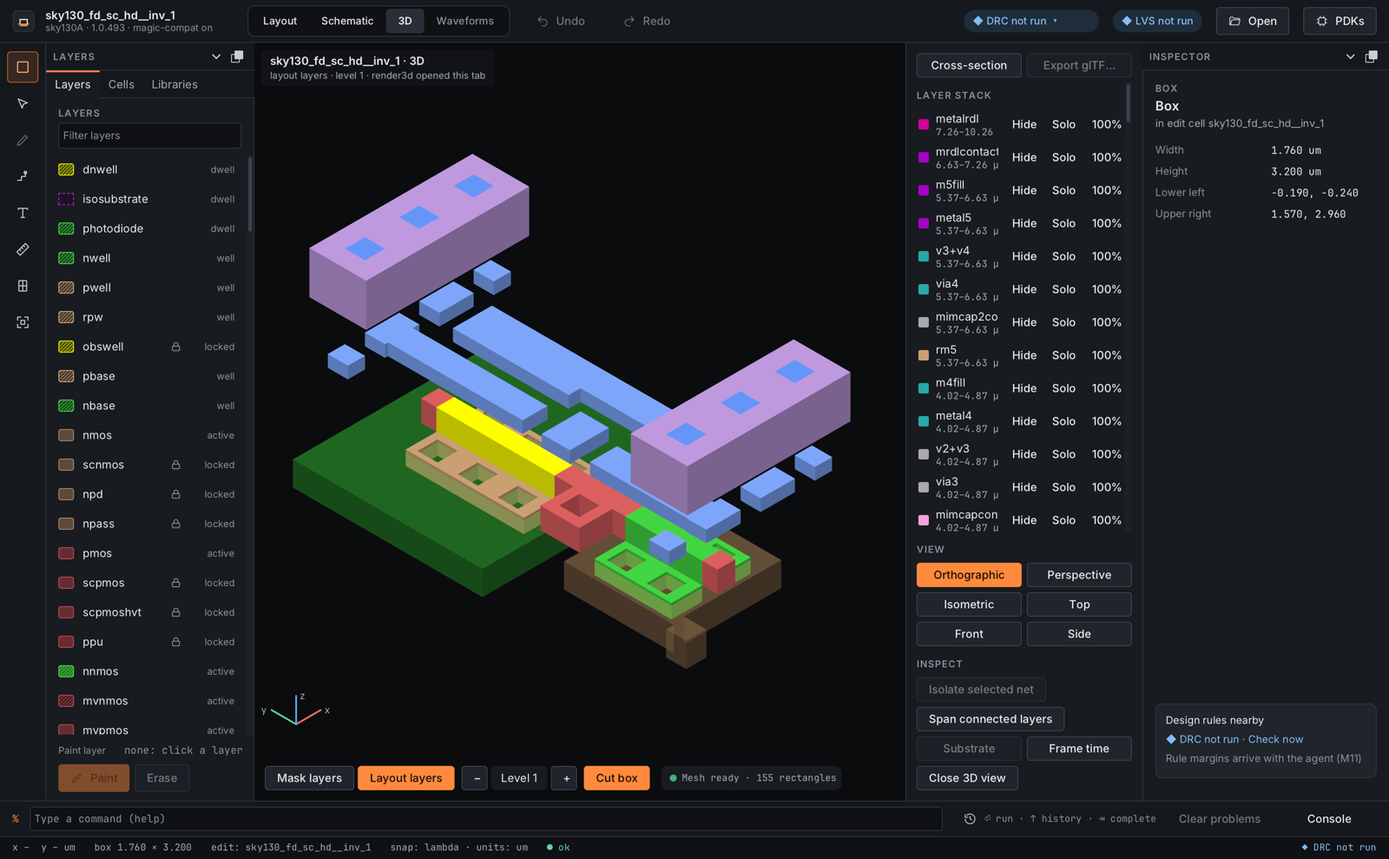
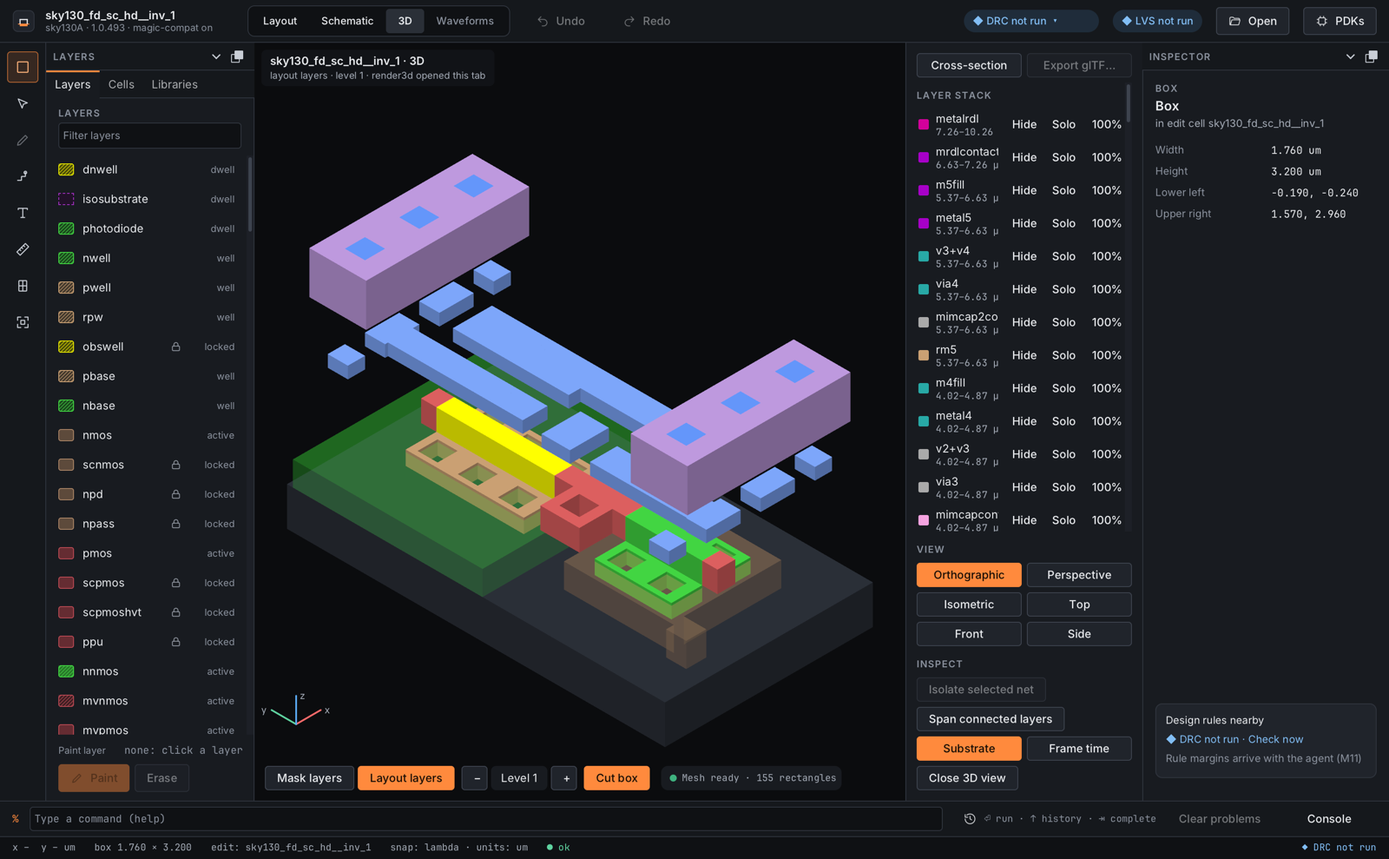
3D tab: use SECTION's section, clipping plane, substrate slab and ground point
With m10-3d-round5-section merged, the template guards are gone: the
cross-section reads view3d::section with the hidden flags and reports its
diagnostics once per line, the view is clipped at the cut line, the
Substrate toggle draws the slab, and two clicks set A-A' on the z = 0
plane. Section bars take the row's transparency. Captures retaken.

diff --git a/src/shell/desktop/src/view3d_view.cpp b/src/shell/desktop/src/view3d_view.cpp
@@ -19,9 +19,7 @@
 #include "hefesto/view3d/client/commands.hpp"
 #include "hefesto/view3d/client/scene.hpp"
 #include "hefesto/view3d/stack/ghost.hpp"
-#if __has_include("hefesto/view3d/stack/substrate.hpp")
 #include "hefesto/view3d/stack/substrate.hpp"
-#endif
 #include "screen_paint.hpp"
 #include "side_panels.hpp"
 
@@ -41,37 +39,6 @@ Rgba rgb_of(const std::array<float, 3>& c) {
 Rgba alpha_of(Rgba c, float a) {
   c.a *= a;
   return c;
-}
-
-// SECTION's round-5 interfaces (substrate slab, ground point), used when
-// they are present: the guards are templates, so a missing function or
-// field only turns the feature off (listed for integration).
-template <class Params, class Mesh, class Stack>
-constexpr bool kHaveSubstrate = requires(Params& p, const Mesh& m, const Stack& s) {
-  p.substrate = substrate_slab(m, s);  // view3d::substrate_slab, found through Mesh's namespace
-};
-
-template <class Params, class Mesh, class Stack>
-void set_substrate(Params& params, const Mesh& mesh, const Stack& stack, bool on) {
-  if constexpr (kHaveSubstrate<Params, Mesh, Stack>) {
-    if (on) params.substrate = substrate_slab(mesh, stack);
-  }
-}
-
-template <class View>
-constexpr bool kHaveGroundPoint = requires(const View& v) {
-  { ground_point(v, 0.0F, 0.0F, 1, 1) };  // view3d::ground_point(view, x, y, width, height)
-};
-
-template <class View>
-std::optional<db::Point> ground_at(const View& view, float x, float y, int width, int height) {
-  if constexpr (kHaveGroundPoint<View>) {
-    const auto p = ground_point(view, x, y, width, height);
-    if (!p) return std::nullopt;
-    return db::Point{static_cast<db::Coord>(std::lround(p->x)), static_cast<db::Coord>(std::lround(p->y))};
-  } else {
-    return std::nullopt;
-  }
 }
 
 }  // namespace
@@ -218,7 +185,7 @@ View3dControlState View3dView::control_state() const {
   s.net_isolated = picking_.net_isolated();
   s.section_on = section_line_.has_value();
   s.substrate_on = substrate_on_;
-  s.substrate_available = kHaveSubstrate<render::DrawParams, view3d::MeshModel, view3d::LayerStack>;
+  s.substrate_available = true;
   s.export_available = export_registered() && ctx_.editor().file_picker != nullptr;
   s.visibility_editable = w != nullptr && visibility_editable(*w);
   return s;
@@ -661,7 +628,7 @@ void View3dView::take_model(const view3d::MeshHandle& model) {
   drawable_ = pending_drawable_;
   ghost_.drawn(*drawn_stack_, options_);
   picking_.model_changed();  // the isolated net follows the new ordinals
-  update_section();
+  update_section(false);
   highlight_dirty_ = true;
   dirty_ = true;
   refresh_rows();
@@ -781,7 +748,11 @@ void View3dView::draw_frame() {
   const display::StyleSet* styles = ctx_.editor().styles ? &*ctx_.editor().styles : nullptr;
   render::DrawParams params =
       draw_params(FrameInputs{w, stack, styles, highlight_, &options_, view3d_background(ctx_.mode)});
-  if (uploaded_ && uploaded_stack_) set_substrate(params, *uploaded_, *uploaded_stack_, substrate_on_);
+  // The board's substrate slab and the cross-section's clipping plane (round 5).
+  if (substrate_on_ && uploaded_ && uploaded_stack_) {
+    params.substrate = view3d::substrate_slab(*uploaded_, *uploaded_stack_);
+  }
+  if (section_line_) params.section_plane = section_clip_plane(*section_line_);
   const auto start = std::chrono::steady_clock::now();
   try {
     renderer_->draw(w->view, params, *target_);
@@ -1012,16 +983,17 @@ void View3dView::paint_section(ui::Painter& p, float w, float h) {
   constexpr float kStrip = 64.0F;
   p.fill(0.0F, 0.0F, w, h, 8.0F, t.surface2);
   p.text(TextRole::body_strong, 12.0F, 8.0F, "Cross-section A–A′", t.text_primary);
-  const double length = segment_length_um(*section_line_, stack->microns_per_unit());
   const SectionPanel panel =
-      section_panel(section_, *stack, length, w - 24.0F, kStrip, hidden_flags(*stack, *win));
+      section_panel(section_, *stack, section_.length_um, w - 24.0F, kStrip, hidden_flags(*stack, *win));
   section_paint_->set_accessible_name(panel.accessible_name);
   p.text(TextRole::meta, 12.0F, 24.0F, panel.summary, t.text_secondary);
   p.fill(12.0F, kTop, w - 24.0F, kStrip, 2.0F, t.surface0);
   const display::StyleSet* styles = ctx_.editor().styles ? &*ctx_.editor().styles : nullptr;
   const std::vector<render::LayerPaint> paints = render::layer_paints(*stack, styles);
   for (const SectionBar& bar : panel.bars) {
-    const Rgba color = bar.layer < paints.size() ? rgb_of(paints[bar.layer].rgb) : t.text_secondary;
+    // In the style colour at the layer's transparency (ghosted wells stay faint).
+    const float alpha = bar.layer < options_.alpha.size() ? options_.alpha[bar.layer] : 1.0F;
+    const Rgba color = bar.layer < paints.size() ? alpha_of(rgb_of(paints[bar.layer].rgb), alpha) : t.text_secondary;
     p.fill(12.0F + bar.x, kTop + bar.y, std::max(1.0F, bar.w), std::max(1.0F, bar.h), 0.0F, color);
   }
   std::string foot = panel.bars.empty() ? "No layer crosses the line" : "A at left, A′ at right; height in µm";
@@ -1039,29 +1011,41 @@ void View3dView::toggle_section() {
     if (const std::optional<db::Rect> area = section_area(ctx_.editor(), *w)) section_line_ = box_cut_line(*area);
   }
   section_paint_->set_visible(section_line_.has_value());
-  update_section();
+  update_section(true);
+  dirty_ = true;  // the clipping plane
   repaint();
 }
 
-void View3dView::update_section() {
+void View3dView::update_section(bool report) {
   section_ = {};
-  if (section_line_ && model_ && drawn_stack_) section_ = view3d::section(*model_, *drawn_stack_, *section_line_);
+  const view3d::WindowState* w = window();
+  if (section_line_ && model_ && drawn_stack_ && w != nullptr) {
+    section_ = view3d::section(*model_, *drawn_stack_, *section_line_, hidden_flags(*drawn_stack_, *w));
+  }
+  // A new line's diagnostics (a refused line, layers without a height) go
+  // to the console once; a rebuilt model recomputes silently.
+  if (report) {
+    for (const diag::Diagnostic& d : section_.diagnostics) ctx_.core.dispatcher().report(d);
+  }
   section_paint_->invalidate();
 }
 
 bool View3dView::section_click(float x, float y) {
   const view3d::WindowState* w = window();
   if (!section_line_ || w == nullptr) return false;
-  const ui::Rect r = viewport_->rect();
-  const std::optional<db::Point> point =
-      ground_at(w->view, x, y, static_cast<int>(r.width), static_cast<int>(r.height));
-  if (!point) return false;  // no ground point (SECTION's interface): the click picks
+  const float ratio = pixel_ratio_ ? pixel_ratio_() : 1.0F;
+  const render::DrawParams params = draw_params(FrameInputs{w, nullptr, nullptr, nullptr, &options_});
+  const std::optional<db::Point> ground =
+      view3d::ground_point(w->view, params.projection, pixels_.first, pixels_.second, x * ratio, y * ratio);
+  if (!ground) return false;  // the plane is seen edge on (front, side): the click picks
+  const db::Point point = ground_to_root(*ground, xy_factor(*w));
   if (!section_first_) {
-    section_first_ = *point;
+    section_first_ = point;
   } else {
-    section_line_ = axis_aligned_line(*section_first_, *point);
+    section_line_ = axis_aligned_line(*section_first_, point);
     section_first_.reset();
-    update_section();
+    update_section(true);
+    dirty_ = true;
   }
   repaint();
   return true;

diff --git a/tests/unit/shell/view3d_models_test.cpp b/tests/unit/shell/view3d_models_test.cpp
@@ -1279,3 +1279,47 @@ TEST_CASE("Cross-section: the section panel draws each interval from bottom to t
   CHECK(empty.summary == "A–A′ no µm scale · 0 layers");
   CHECK(empty.accessible_name == "Cross-section A–A′, length unknown, no layer crosses the line");
 }
+
+TEST_CASE("the cut line's clipping plane keeps the side away from the isometric viewer",
+          "[cap:hefesto-3d-visualization][req:Interactive 3D inspection]") {
+  const hefesto::render::SectionPlane along_x = section_clip_plane(box_cut_line(db::Rect{0, 0, 100, 40}));
+  CHECK(along_x.axis == hefesto::render::SectionPlane::Axis::y);
+  CHECK(along_x.position == 20.0);
+  CHECK(along_x.keep_greater);
+  const hefesto::render::SectionPlane along_y = section_clip_plane(box_cut_line(db::Rect{-10, -30, 10, 70}));
+  CHECK(along_y.axis == hefesto::render::SectionPlane::Axis::x);
+  CHECK(along_y.position == 0.0);
+  CHECK(along_y.keep_greater);
+}
+
+TEST_CASE("a ground point in mask-layer mode is divided back to root coordinates",
+          "[cap:hefesto-3d-visualization][req:Interactive 3D inspection]") {
+  CHECK(ground_to_root(db::Point{100, -40}, 1.0F) == db::Point{100, -40});
+  CHECK(ground_to_root(db::Point{100, -40}, 10.0F) == db::Point{10, -4});
+  CHECK(ground_to_root(db::Point{100, -40}, 0.0F) == db::Point{100, -40});  // not a valid factor: unchanged
+}
+
+TEST_CASE("Cross-section on the tab's mesh: the panel shows the layers the line crosses",
+          "[cap:hefesto-3d-visualization][req:Interactive 3D inspection]") {
+  // A real section (view3d::section, SECTION) of a one-layer model.
+  view3d::StackLayer met1;
+  met1.name = "MET1";
+  met1.height = 1.38F;
+  met1.thickness = 0.36F;
+  met1.source = view3d::ValueSource::render;
+  const view3d::LayerStack stack{view3d::Mode::mask_layer, {met1}, true, 0.01};
+  view3d::MeshModel mesh;
+  mesh.region = db::Rect{0, 0, 200, 100};
+  view3d::Chunk chunk;
+  chunk.area = mesh.region;
+  chunk.rects.push_back(view3d::RectInstance{50.0F, 0.0F, 150.0F, 100.0F, 0});
+  mesh.chunks.push_back(chunk);
+  const view3d::Segment line = box_cut_line(mesh.region);
+  const view3d::CrossSection cs = view3d::section(mesh, stack, line);
+  REQUIRE(cs.intervals.size() == 1);
+  const SectionPanel panel = section_panel(cs, stack, cs.length_um, 200.0F, 60.0F);
+  REQUIRE(panel.bars.size() == 1);
+  CHECK(panel.bars[0].x == Catch::Approx(50.0F).margin(1e-3));
+  CHECK(panel.bars[0].w == Catch::Approx(100.0F).margin(1e-3));
+  CHECK(panel.summary == "A–A′ 2.00 µm · 1 layer");
+}

diff --git a/src/shell/desktop/src/view3d_models.cpp b/src/shell/desktop/src/view3d_models.cpp
@@ -808,6 +808,26 @@ std::optional<db::Rect> section_area(const editor::EditorState& editor, const vi
   return cell->bbox();
 }
 
+render::SectionPlane section_clip_plane(const view3d::Segment& line) noexcept {
+  render::SectionPlane plane;
+  if (line.a.y == line.b.y) {
+    plane.axis = render::SectionPlane::Axis::y;
+    plane.position = static_cast<double>(line.a.y);
+  } else {
+    plane.axis = render::SectionPlane::Axis::x;
+    plane.position = static_cast<double>(line.a.x);
+  }
+  plane.keep_greater = true;
+  return plane;
+}
+
+db::Point ground_to_root(db::Point ground, float xy_factor) noexcept {
+  if (!std::isfinite(xy_factor) || xy_factor <= 0.0F || xy_factor == 1.0F) return ground;
+  const double f = static_cast<double>(xy_factor);
+  return db::Point{static_cast<db::Coord>(std::lround(static_cast<double>(ground.x) / f)),
+                   static_cast<db::Coord>(std::lround(static_cast<double>(ground.y) / f))};
+}
+
 double segment_length_um(const view3d::Segment& line, double microns_per_unit) noexcept {
   const double dx = static_cast<double>(line.b.x) - static_cast<double>(line.a.x);
   const double dy = static_cast<double>(line.b.y) - static_cast<double>(line.a.y);

diff --git a/src/shell/desktop/include/hefesto/shell/view3d_models.hpp b/src/shell/desktop/include/hefesto/shell/view3d_models.hpp
@@ -645,6 +645,14 @@ inline constexpr float kView3dToolbarSpacing = 8.0F;
 /// box; nullopt when the cell does not exist.
 [[nodiscard]] std::optional<db::Rect> section_area(const editor::EditorState& editor,
                                                    const view3d::WindowState& window);
+/// The 3D view's clipping plane for `line` (render::SectionPlane): the
+/// vertical plane through the line, keeping the side away from the
+/// isometric viewer (y >= c for a line along x, x >= c for one along y),
+/// so the cut faces the user.
+[[nodiscard]] render::SectionPlane section_clip_plane(const view3d::Segment& line) noexcept;
+/// A view3d::ground_point result back in root coordinates: it is in the
+/// renderer's coordinates, x and y times `xy_factor` (mask-layer mode, P1).
+[[nodiscard]] db::Point ground_to_root(db::Point ground, float xy_factor) noexcept;
 /// The line's length in µm (internal units x µm per unit).
 [[nodiscard]] double segment_length_um(const view3d::Segment& line, double microns_per_unit) noexcept;
 

diff --git a/src/shell/desktop/src/view3d_view.hpp b/src/shell/desktop/src/view3d_view.hpp
@@ -141,8 +141,9 @@ class View3dView final : public view3d::WindowDisplay, public view::ViewObserver
   void toggle_section();
   void export_model();
   [[nodiscard]] bool export_registered() const;
-  /// Recomputes the cross-section of the drawn model along section_line_.
-  void update_section();
+  /// Recomputes the cross-section of the drawn model along section_line_
+  /// (hidden layers left out); `report` sends its diagnostics to the console.
+  void update_section(bool report);
   /// A click in the 3D view while the cross-section is on: A, then A'
   /// (on the z = 0 plane; needs view3d::ground_point).
   bool section_click(float x, float y);

diff --git a/docs/design/m10-3d-ui-conformance.md b/docs/design/m10-3d-ui-conformance.md
@@ -30,7 +30,7 @@ Round 4 Linux captures (PR #102 CI run 45420881227, leg `linux-x64-clang-latest`
 
 Round 4 (SHELL, branch `m10-3d-round4-shell`, 2026-11-24; Q-MISC-84, Q-MISC-85): the user's screenshot of `sky130_fd_sc_hd__dfxtp_1` did not look like the board. Before captures (same build at the origin/main base, kept out of the repository) showed a light grey background, washed-out faces fading to white, an isometric `view` with the stack upside down and the cell far larger than the window, and Magic's top-down view on opening. After captures, macOS (Apple M3 Pro, MoltenVK, debug build, 1600 × 989 logical, `hefesto -T sky130A.tech <cell>.mag --run 'magic::render3d; .render.magic cif' --capture …`, with Magic's `mos` styles in a CAD_ROOT), with RENDER's round-4 renderer merged: [view3d-dfxtp1-macos.png](../images/ui/view3d-dfxtp1-macos.png) (magic-compat ON), [view3d-dfxtp1-compat-off-macos.png](../images/ui/view3d-dfxtp1-compat-off-macos.png) (`setting set magic-compat off` first: the same picture), [view3d-inverter-macos.png](../images/ui/view3d-inverter-macos.png) (`sky130_fd_sc_hd__inv_1`, standing in for the board's `inverter_demo`, which the repository does not have). Rows in "Round 4 board look" below. Linux captures of the new look come from the CI desktop legs (open).
 
-Round 5 (SHELL, branch `m10-3d-round5-shell`, 2026-11-25; tasks 9.6, 11.5): before captures (the origin/main build at cbe15a8c, kept out of the repository) reproduce the round-4 Linux gaps on macOS at 1280 × 800: the toolbar strip under the view is wider than the view (Cut box and the mesh status cut off), and the panel's View and Inspect sections are below a 349-row layer list. After captures, macOS (Apple M3 Pro, MoltenVK, debug build, same commands as round 4, plus 1280 × 800): [view3d-dfxtp1-macos.png](../images/ui/view3d-dfxtp1-macos.png) (1600 × 989), [view3d-dfxtp1-1280-macos.png](../images/ui/view3d-dfxtp1-1280-macos.png) (1280 × 800), [view3d-dfxtp1-compat-off-macos.png](../images/ui/view3d-dfxtp1-compat-off-macos.png) (magic-compat OFF: the same picture), [view3d-inverter-macos.png](../images/ui/view3d-inverter-macos.png), [view3d-tab-macos.png](../images/ui/view3d-tab-macos.png) (the window test's cell at 1280 × 800), and the Cross-section panel after a click on "Cross-section" (`--press`): [view3d-section-dfxtp1-macos.png](../images/ui/view3d-section-dfxtp1-macos.png), [view3d-section-tab-macos.png](../images/ui/view3d-section-tab-macos.png). Rows in "Round 5" below. The Linux captures of the same window test come from the CI desktop legs of the round's PR (`view3d-captures-<leg>`).
+Round 5 (SHELL, branch `m10-3d-round5-shell`, 2026-11-25; tasks 9.6, 11.5): before captures (the origin/main build at cbe15a8c, kept out of the repository) reproduce the round-4 Linux gaps on macOS at 1280 × 800: the toolbar strip under the view is wider than the view (Cut box and the mesh status cut off), and the panel's View and Inspect sections are below a 349-row layer list. After captures, macOS (Apple M3 Pro, MoltenVK, debug build, same commands as round 4, plus 1280 × 800): [view3d-dfxtp1-macos.png](../images/ui/view3d-dfxtp1-macos.png) (1600 × 989), [view3d-dfxtp1-1280-macos.png](../images/ui/view3d-dfxtp1-1280-macos.png) (1280 × 800), [view3d-dfxtp1-compat-off-macos.png](../images/ui/view3d-dfxtp1-compat-off-macos.png) (magic-compat OFF: the same picture), [view3d-inverter-macos.png](../images/ui/view3d-inverter-macos.png), [view3d-tab-macos.png](../images/ui/view3d-tab-macos.png) (the window test's cell at 1280 × 800), and the Cross-section panel after a click on "Cross-section" (`--press`): [view3d-section-dfxtp1-macos.png](../images/ui/view3d-section-dfxtp1-macos.png), [view3d-section-tab-macos.png](../images/ui/view3d-section-tab-macos.png). These captures were retaken after SECTION's branch (`m10-3d-round5-section`: `view3d::section`, the clipping plane, the substrate slab, `ground_point`) was merged into the SHELL branch, so they show the slab and a real section. Rows in "Round 5" below. The Linux captures of the same window test come from the CI desktop legs of the round's PR (`view3d-captures-<leg>`).
 
 ## Round 5: floating toolbar, fit at 1280 × 800, P2 screen part (tasks 9.6, 11.5)
 
@@ -41,9 +41,9 @@ Compared with the board `docs/design/mockups/View3D.dc.html` and the round-5 aft
 | Floating view toolbar | Mask / Layout layers, the Level stepper (− · "Level 1" · +) and Cut box float over the bottom-left of the 3D view, 12 px from its edges (`raven_ui` `Widget::place_bottom_left`), with the mesh status chip; the strip under the view is gone. The groups flow into rows when the view is narrow (`flow_rows`): one row at 1600 × 989, two rows at 1280 × 800 (mode and level, then Cut box and status). The axis gizmo and the pick caption sit above the toolbar. | done (macOS); the status chip follows the controls instead of sitting at the right end as on the board |
 | Every control fits at 1280 × 800 | The side panel's paired buttons (Cross-section / Export glTF…, Orthographic / Perspective, the presets, Substrate / Frame time) are a two-column grid of equal cells (the board's camera grid), so "Side" ends inside the panel; nothing in the toolbar is cut off. Test "the side panel's button grid and the floating toolbar fit a 1280-px-wide window". | done (macOS 1280 × 800); Linux X11/Wayland from the PR's CI captures |
 | Presets and projection | Pinned under the scrolled layer stack ("View"), always visible, as the board pins them to the bottom of its aside; the layer list scrolls above them. | done (macOS) |
-| Cross-section (task 11.5) | The "Cross-section" toggle cuts A–A′ along the layout box's long axis (axis-aligned; else the cut box, else the cell's bounding box) and shows the "Cross-section A–A′" panel under Inspect: each layer's intervals from h to h + t in µm in its display style's colour, the line's length, the layers with no height named. Two clicks in the 3D view set A and A′ once SECTION's `view3d::ground_point` is merged (guarded). | partial: on main `view3d::section` is a stub, so the panel reads "No layer crosses the line" in the captures; the bars appear with SECTION's implementation (integration). The 3D clipping plane (`DrawParams::section_plane`) is not wired (SECTION's field was not available to this branch) |
+| Cross-section (task 11.5) | The "Cross-section" toggle cuts A–A′ along the layout box's long axis (axis-aligned; else the cut box, else the cell's bounding box), clips the 3D view at the vertical plane through the line (`DrawParams::section_plane`, keeping the side away from the isometric viewer) and shows the "Cross-section A–A′" panel under Inspect: each layer's intervals from h to h + t in µm (`view3d::section`, hidden layers left out) in its display style's colour at the row's transparency, the line's length, the layers with no height named; the section's diagnostics go to the console once per line (the window test's tech, which has no µm scale, reports `VIEW3D-SECTION-002`). With Cross-section on, two clicks in the 3D view set A and A′ on the z = 0 plane (`view3d::ground_point`; front and side views see the plane edge on, so a click there picks). | done (macOS: dfxtp_1 cut along its long axis, panel with 6 layers; the window test's cell with the warning); the board draws the panel in the right aside, here it is under Inspect in the side panel |
 | Export glTF… (task 11.5) | Asks for a file with the platform save dialog (`platform::FilePicker`: glTF, glTF binary, STL; "<cell>.gltf" proposed) and runs `<path> export3d <file>` (or plain `export3d <file>` when the command is not in the 3D window's table). | partial: disabled in the captures because `export3d` (EXPORT, D14) is not registered on main; it enables itself when the command exists |
-| Substrate slab | A "Substrate" toggle (default on, the board look) sets `DrawParams::substrate` from `view3d::substrate_slab` when SECTION's interfaces are merged (guarded). | partial: disabled ("Substrate, off") until SECTION is merged; no slab drawn in the captures |
+| Substrate slab | A "Substrate" toggle (default on, the board look) sets `DrawParams::substrate` from `view3d::substrate_slab`: the dark slab under the stack in every after capture. | done (macOS); not listed as a layer-stack row as on the board ("substrate · ghosted"): it is not a layer |
 | Layer row text at 1280 × 800 | The rows end before the scroll bar; long sky130A names and their µm ranges ("mrdlcontact", "6.63–7.26 µm") are clipped by the three row buttons. | partial: clipped long names (the board shows the row buttons only on hover) |
 
 ## Round 4 board look (Q-MISC-84, Q-MISC-85; tasks 16.6-16.8, 16.10)
@@ -126,7 +126,7 @@ Round 3 (SHELL): `Mesh3dSpike` is removed (`mesh3d_spike.hpp|.cpp`, the `mesh3d_
 
 | Element | Phase | Status / gap |
 |---|---|---|
-| Cross-section tool and the A–A′ section panel | P2 (task 11.5) | partial (round 5): built; empty until SECTION's `view3d::section` lands; no 3D clipping plane yet (see "Round 5") |
+| Cross-section tool and the A–A′ section panel | P2 (task 11.5) | done (round 5, macOS; see "Round 5") |
 | Export glTF with the file picker | P2 (task 11.5) | partial (round 5): built; enabled once EXPORT registers `export3d` (see "Round 5") |
 | Overlay dropdown and legend | P3 (task 15.1) | later |
 | Touch orbit and pinch zoom | M14 (iPadOS) | later |
@@ -155,7 +155,7 @@ Checked on 2026-11-25 (round 5) on the running app (macOS 1280 × 800, the windo
 | Screen-reader names | From `control_view` (test "every 3D tab control has a screen-reader name and toggles announce their state"): "Cross-section", "Export glTF…", "Orthographic", "Perspective", the presets, "Substrate", "Isolate selected net", "Span connected layers", "Frame time", "Close 3D view", "Show all layers", "Mask layers", "Layout layers", "Level down", "Level up", "Cut box"; rows "metal1, 1.38–1.73 µm, shown" (", ghosted, 20 percent opaque" for a ghosted row), "Hide metal1", "Isolate metal1", "Transparency of metal1, 50 percent"; the level value "Level 1" (AXStaticText, no longer a button that did nothing); the status "Mesh ready · 5 rectangles"; the header "view3d_tab · 3D, layout layers · level 1 · render3d opened this tab"; the section panel's text lists each layer's µm range and interval count. | done (AX tree) |
 | State of toggles | Toggles announce ", on" / ", off" in the name (AXButton "Cut box, on", "Perspective, off"). Raven exposes a checked state (AXValue) only for its own check boxes, menu items and tabs; a painted widget with the toggle role has no way to set it. | partial: state in the name, not in AXValue; upstream Raven item (an accessible checked state for custom widgets) |
 | Groups and roles | AXToolbar "3D view toolbar" with AXGroups "Layer source (cif)" and "Rendering level"; AXGroup "3D view controls" (pane) with groups "3D actions", "Projection", "Camera", "View options"; AXList "Layer stack, top layer first"; section headings as AXStaticText; the separator is hidden from screen readers. | done (AX tree); the board's radio groups (mode, projection) are toggle buttons: Raven's wrapper has no radio role with a selected state |
-| Disabled controls | Export glTF… (no `export3d`), Substrate (no slab yet), Isolate selected net (nothing picked) report `enabled = false` (`set_enabled` follows `control_view`). | done (AX tree) |
+| Disabled controls | Export glTF… (no `export3d`), Isolate selected net (nothing picked) report `enabled = false` (`set_enabled` follows `control_view`). | done (AX tree) |
 | Outside the 3D tab | The tree also has an unnamed AXButton between the 3D tab and the inspector, and one after "Zoom to fit" (main window widgets, outside SHELL's 3D files; open item). | open item (main window) |
 
 ## Performance (PERF, section 13)

diff --git a/openspec/changes/m10-3d-view/tasks.md b/openspec/changes/m10-3d-view/tasks.md
@@ -126,7 +126,7 @@ How this plan runs:
 - [ ] 11.3 (EXPORT) Implement `export3d` and the glTF writer (design D14, J2): one node per visible layer in layer order, materials from display styles, µm, `-zscale` recorded in `asset.extras`. Verify `[req:3D export]` "glTF export" with a validator check of the output (glTF-Validator in CI), physical heights, and an export from mask-layer mode on gf180mcuD that warns `VIEW3D-STACK-001`.
 - [ ] 11.4 (EXPORT) Implement the binary STL writer, per layer or merged. Make glTF and STL output byte-stable: C locale, fixed triangulation, a cross-platform digest test on Linux x86_64, Linux aarch64 and macOS arm64; pin cgltf's number formatting if the digests differ. Verify that the digests are equal on every leg.
 - [ ] 11.5 (SHELL) Enable Cross-section and Export glTF on the screen with the file picker. Verify view-model tests and the conformance review.
-  As landed (round 5, SHELL, branch `m10-3d-round5-shell`; not ticked until SECTION and EXPORT are merged): "Cross-section" (toggle) cuts A-A' along the layout box's long axis (`box_cut_line`; else the cut box, else the cell's bbox) and shows the "Cross-section A-A'" panel from `view3d::section` (intervals from bottom_um to top_um in µm in the style colours, `no_height` layers named; `section_panel`); two clicks in the 3D view set the line through `view3d::ground_point` when present (template guard). "Export glTF…" opens the save dialog through `platform::FilePicker` and runs `<path> export3d <file>` (`export_request`, `export_command`), enabled when `export3d` is registered. A "Substrate" toggle (default on) sets `DrawParams::substrate` from `view3d::substrate_slab` when present (guard). Tests: "Export glTF asks for a file and runs export3d on the window", "the cut line follows the layout box's long axis and two clicks make an axis-aligned line", "the cross-section cuts the layout box in the rendered cell, else the cell", "Cross-section: the section panel draws each interval from bottom to top in microns". Open for integration: the guards, `DrawParams::section_plane` (not wired), and captures with SECTION's real section.
+  As landed (round 5, SHELL, branch `m10-3d-round5-shell`, with SECTION's branch merged; not ticked until EXPORT is merged and the button is checked with a real `export3d`): "Cross-section" (toggle) cuts A-A' along the layout box's long axis (`box_cut_line`; else the cut box, else the cell's bbox) and shows the "Cross-section A-A'" panel from `view3d::section` (intervals from bottom_um to top_um in µm in the style colours, `no_height` layers named; `section_panel`); two clicks in the 3D view set the line through `view3d::ground_point`; the 3D view is clipped at the line (`DrawParams::section_plane` from `section_clip_plane`). "Export glTF…" opens the save dialog through `platform::FilePicker` and runs `<path> export3d <file>` (`export_request`, `export_command`), enabled when `export3d` is registered. A "Substrate" toggle (default on) sets `DrawParams::substrate` from `view3d::substrate_slab`. Tests: "Export glTF asks for a file and runs export3d on the window", "the cut line follows the layout box's long axis and two clicks make an axis-aligned line", "the cross-section cuts the layout box in the rendered cell, else the cell", "Cross-section: the section panel draws each interval from bottom to top in microns". Further tests: "the cut line's clipping plane keeps the side away from the isometric viewer", "a ground point in mask-layer mode is divided back to root coordinates", "Cross-section on the tab's mesh: the panel shows the layers the line crosses". macOS captures with the real section, plane and slab in the conformance doc "Round 5". Open: Export enables once EXPORT (`export3d`, a global command) is merged.
 
 ## 12. GOLDEN (P1, P2)
 

diff --git a/openspec/changes/m10-3d-view/design.md b/openspec/changes/m10-3d-view/design.md
@@ -572,6 +572,7 @@ Branch `m10-3d-round5-shell` (tasks 9.6, 11.5; the round-4 conformance gaps). No
 - **Controls as a view model.** `control_view(View3dControl, View3dControlState)` gives every non-row control's label, screen-reader name (", on" / ", off" for toggles, `view3d_toggle_name`), state, enabled flag and tooltip; the view paints and names its buttons from it and sets the widgets' enabled state, which Raven exposes.
 - **Accessibility audit.** The running app's AX tree (System Events, read-only) shows Raven v0.2.3 publishes the painted widgets with their roles and names; the toggle state lives in the name because Raven has no checked state for custom widgets (upstream item).
 - **P2 actions.** Cross-section: `section_area` (box in the rendered cell, else cut box, else bbox), `box_cut_line`, `axis_aligned_line`, `segment_length_um`, `section_panel` (bars in panel units, `no_height` names, summary and screen-reader text, hidden layers left out). Export: `export_request` (save; .gltf, .glb, .stl) through `EditorState::file_picker`, `export_command` (`<path> export3d <file>` when export3d is in the `wind3d` table, else `export3d <file>`; the file is one Tcl word).
-- **Guards for integration.** In `view3d_view.cpp`: `kHaveSubstrate` / `set_substrate` (`DrawParams::substrate = substrate_slab(mesh, stack)`, found by ADL; `hefesto/view3d/stack/substrate.hpp` included through `__has_include`) and `kHaveGroundPoint` / `ground_at` (assumes `ground_point(view, x, y, width, height)` returning an optional point with `x`, `y`). With SECTION merged, check both guards turn true (the Substrate toggle enables; clicks in section mode set A and A'); a different signature leaves them false silently. `DrawParams::section_plane` is not set.
+- **SECTION merged.** `origin/m10-3d-round5-section` is merged into this branch (as round 4 SHELL merged RENDER), so the view calls its interfaces directly and no guard is left: `view3d::section(mesh, stack, line, hidden)` (its `length_um`; its diagnostics reported once per new line through the dispatcher), `DrawParams::section_plane` from `section_clip_plane(line)` (the vertical plane through the line, keeping y >= c or x >= c, the side away from the isometric viewer), `DrawParams::substrate` from `view3d::substrate_slab` while "Substrate" is on (default), and `view3d::ground_point` for the two clicks (pixels, divided back by `xy_factor` with `ground_to_root`). The slab and the plane are set only by the desktop tab.
+- **Export routing.** EXPORT registers `export3d` as a global command (not in the `wind3d` table), so the button runs `export3d <file>`; `export_command` takes the window form if a later change moves it to the table.
 - **Cognitive complexity.** clang-tidy `readability-function-cognitive-complexity` (threshold 15) reports nothing in `view3d_view.cpp` or `view3d_models.cpp`; in `raven_ui.cpp` only the existing `on_event` (20, not touched).
 - **Ownership.** Only the round's SHELL files: `view3d_view.*`, `view3d_models.*`, `view3d_models_test.cpp`, `raven_ui.*` (appended methods), the conformance doc (not "Performance"), `docs/images/ui/view3d-*`, tasks.md 9.6 and 11.5, this section.
